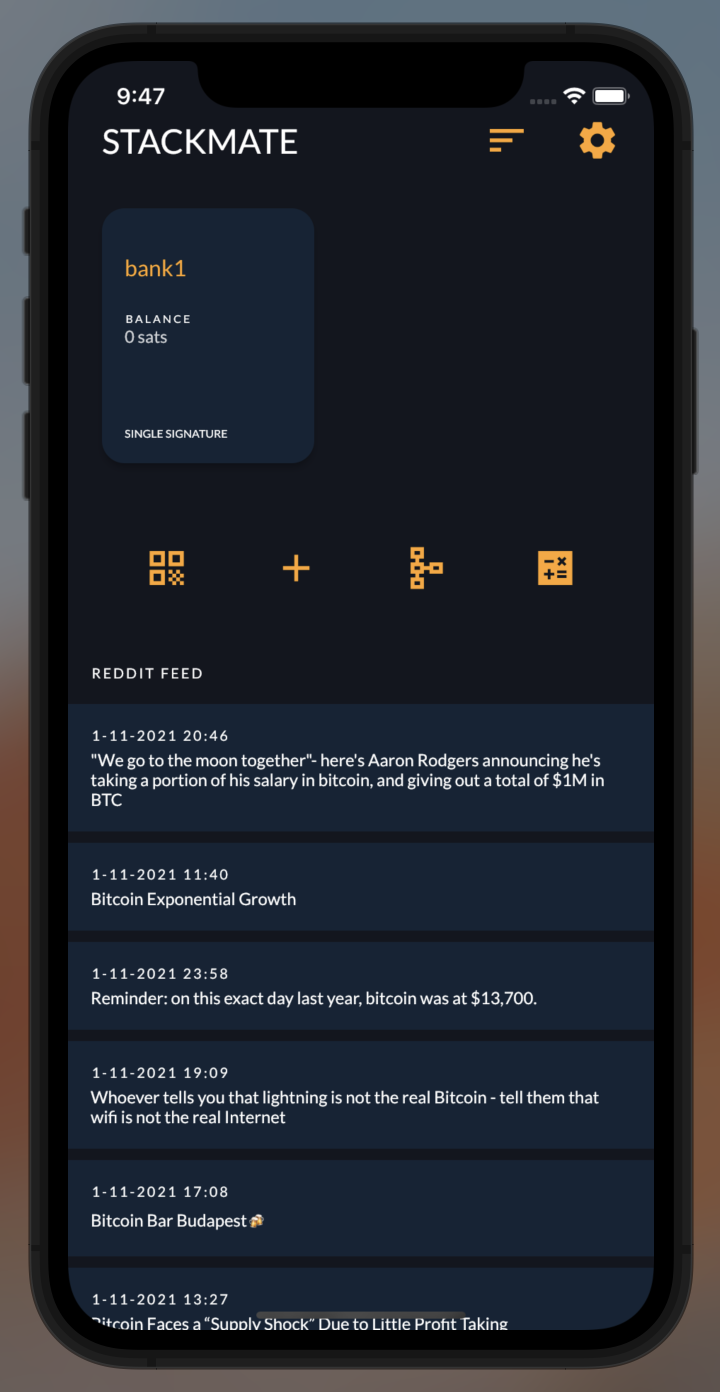
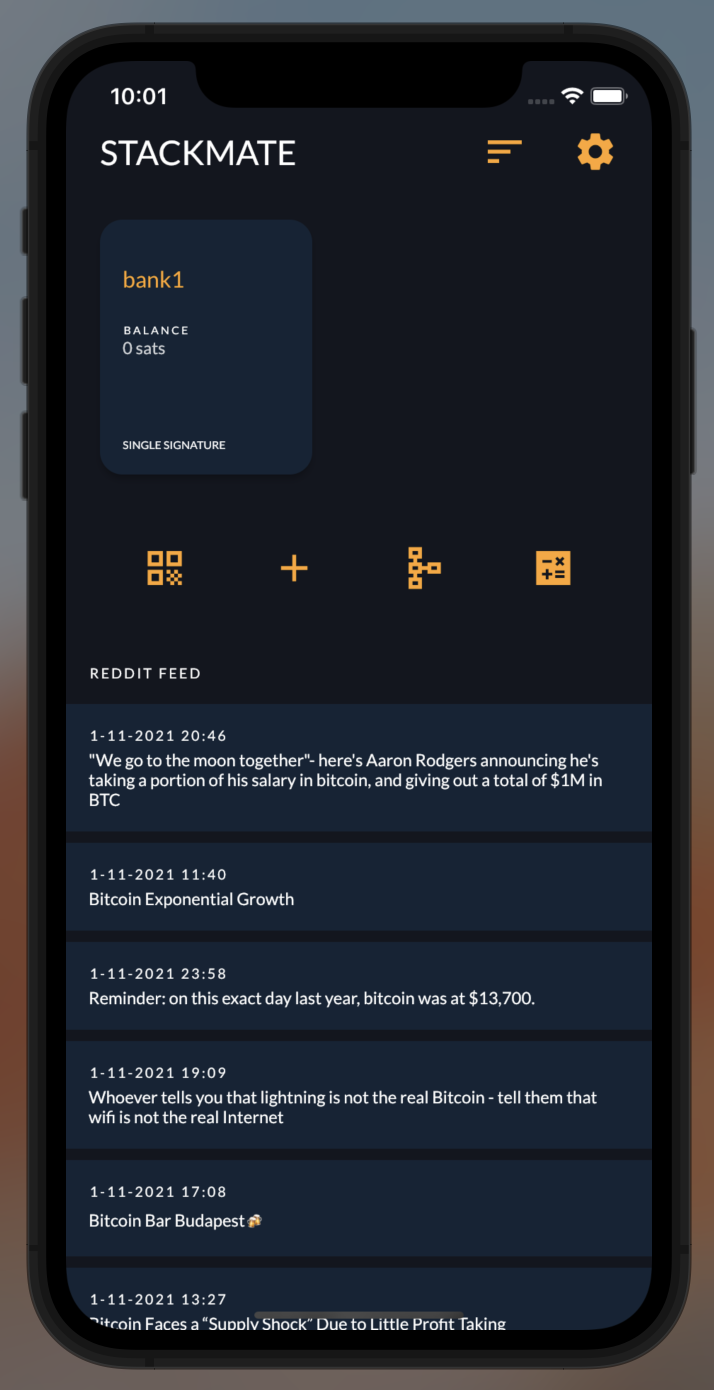
update image

diff --git a/lib/view/settings-page.dart b/lib/view/settings-page.dart
@@ -36,7 +36,7 @@ class BlockchainRow extends StatelessWidget {
               crossAxisAlignment: CrossAxisAlignment.start,
               children: [
                 Text(
-                  'Change Blockchain Network'.toUpperCase(),
+                  'Change Network'.toUpperCase(),
                   style: c.fonts.button!.copyWith(
                     color: c.colours.primary,
                     fontSize: 16,
@@ -92,7 +92,7 @@ class NodeRow extends StatelessWidget {
               crossAxisAlignment: CrossAxisAlignment.start,
               children: [
                 Text(
-                  'Change Bitcoin Node'.toUpperCase(),
+                  'Change Electrum Node'.toUpperCase(),
                   style: c.fonts.button!.copyWith(
                     color: c.colours.primary,
                     fontSize: 16,
@@ -157,7 +157,7 @@ class _EditNodeState extends State<EditNode> {
         crossAxisAlignment: CrossAxisAlignment.stretch,
         children: [
           Text(
-            'Change Bitcoin Node'.toUpperCase(),
+            'Change Electrum Node'.toUpperCase(),
             style: c.fonts.button!.copyWith(
               color: c.colours.onBackground,
               fontSize: 16,

diff --git a/lib/view/home-page.dart b/lib/view/home-page.dart
@@ -16,7 +16,7 @@ class HeaderRow extends StatelessWidget {
     final isRearranging = c.select((WalletsCubit wc) => wc.state.isRearranging);
 
     return Padding(
-      padding: const EdgeInsets.only(top: 24, bottom: 16),
+      padding: const EdgeInsets.only(top: 32, bottom: 16),
       child: Column(
         crossAxisAlignment: CrossAxisAlignment.stretch,
         children: [
